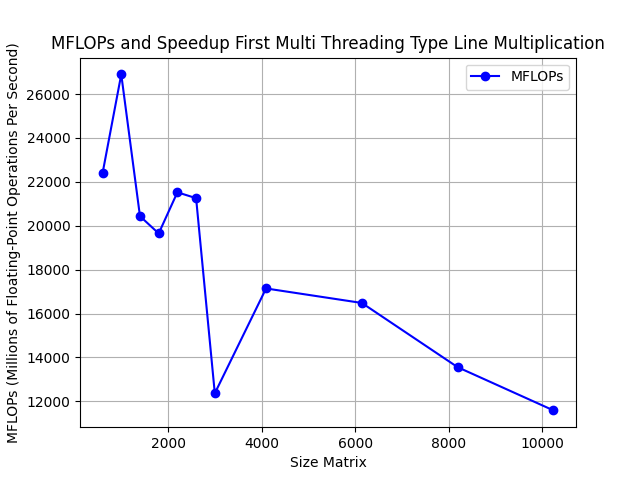
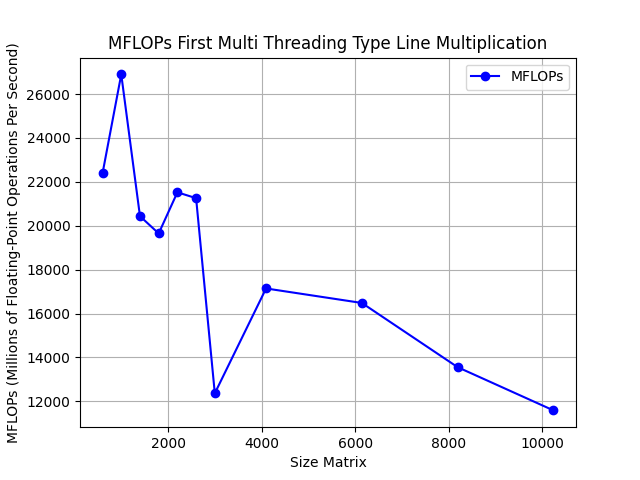
Fixed Another Image

Changed region(s): [[0.0625, 0.0625, 0.9375, 0.125]]

diff --git a/assign1/src/plotMaker.py b/assign1/src/plotMaker.py
@@ -207,17 +207,17 @@ def multiThreadingFirst():
 
 
 
-    plt.plot(size, time, marker='o',linestyle='-', color='blue', label='Execution Time')
+    # plt.plot(size, time, marker='o',linestyle='-', color='blue', label='Execution Time')
 
-    plt.xlabel('Size Matrix')
-    plt.ylabel('Time (seconds)')
+    # plt.xlabel('Size Matrix')
+    # plt.ylabel('Time (seconds)')
 
 
-    plt.title('Execution times First Multi Threading Type Line Multiplication')
-    plt.legend()
-    plt.grid(True) 
+    # plt.title('Execution times First Multi Threading Type Line Multiplication')
+    # plt.legend()
+    # plt.grid(True) 
 
-    plt.show()
+    # plt.show()
 
 
 
@@ -255,17 +255,17 @@ def multiThreadingFirst():
     # print(size)
     # print(time)
 
-    # mFlops = [(2 * (pow(size[i], 3))) / (time[i] * 1000000) for i in range(len(size))]
-    # plt.plot(size, mFlops, marker='o',linestyle='-', color='blue', label='MFLOPs')
-    # plt.xlabel('Size Matrix')
-    # plt.ylabel('MFLOPs (Millions of Floating-Point Operations Per Second)')
+    mFlops = [(2 * (pow(size[i], 3))) / (time[i] * 1000000) for i in range(len(size))]
+    plt.plot(size, mFlops, marker='o',linestyle='-', color='blue', label='MFLOPs')
+    plt.xlabel('Size Matrix')
+    plt.ylabel('MFLOPs (Millions of Floating-Point Operations Per Second)')
 
 
-    # plt.title('MFLOPs and Speedup First Multi Threading Type Line Multiplication')
-    # plt.legend()
-    # plt.grid(True) 
+    plt.title('MFLOPs First Multi Threading Type Line Multiplication')
+    plt.legend()
+    plt.grid(True) 
 
-    # plt.show()
+    plt.show()
 
 
 def multiThreadingSecond():
@@ -360,4 +360,4 @@ def multiThreadingSecond():
 
     plt.show()
 
-multiThreadingSecond()
+multiThreadingFirst()
